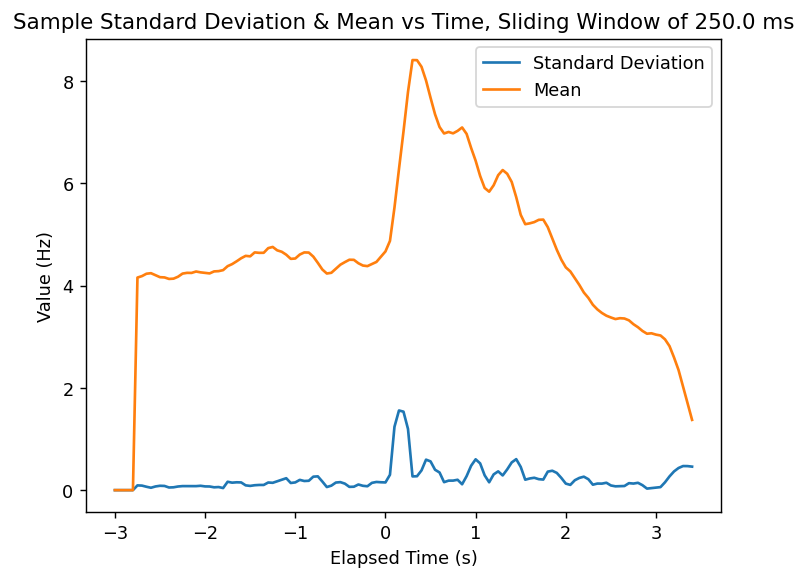
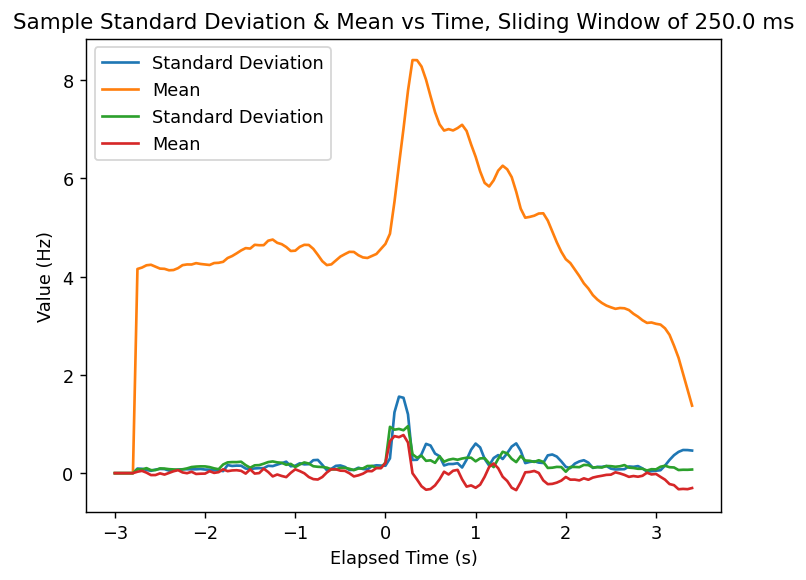
summary 11/4/21

diff --git a/spike_analysis/scripts.py b/spike_analysis/scripts.py
@@ -830,30 +830,70 @@ def epoch_based_pca(session_data_dict):
 
     vvt = np.zeros(ts.shape)
     mvt = np.zeros(ts.shape)
+    vvt2 = np.zeros(ts.shape)
+    mvt2 = np.zeros(ts.shape)
+    vvt3 = np.zeros(ts.shape)
+    mvt3 = np.zeros(ts.shape)
+
     win_len = 5
 
     frs, trial_mask = filter_firing_rates_by_stim_type(sess.get_firing_rates(region='left ALM'), sess)
     print(frs.shape)
 
-    frs = frs.mean(axis=(1,2))
+    frs_t = frs.mean(axis=(1,2))
+    frs_t2 = (np.diff(frs, axis=0)).mean(axis=(1, 2))
+
+    frs_t3 = np.log(frs)
+    frs_t3[np.isnan(frs_t3)] = 0
+    frs_t3[np.isinf(frs_t3)] = 0
+    frs_t3 = (np.diff(frs_t3, axis=0)).mean(axis=(1, 2))
     for i in range(win_len, len(vvt)):
-        vvt[i] = np.std(frs[i - win_len:i])
-        mvt[i] = np.mean(frs[i - win_len:i])
+        vvt[i] = np.std(frs_t[i - win_len:i])
+        vvt2[i] = np.std(frs_t2[i - win_len:i])
+        vvt3[i] = np.std(frs_t3[i - win_len:i])
+
     dt = ts[1] - ts[0]
     win_size = dt * win_len
 
     plt.figure("varvt")
-    plt.title("Sample Standard Deviation & Mean vs Time, Sliding Window of {0} ms".format(np.round(1000*win_size)))
+    plt.title("Sample Standard Deviation vs Time, Sliding Window of {0} ms".format(np.round(1000*win_size)))
     plt.xlabel("Elapsed Time (s)")
     plt.ylabel("Value (Hz)")
-    plt.plot(ts, vvt, label='Standard Deviation')
-    plt.plot(ts, mvt, label='Mean')
+    plt.plot(ts, vvt, label='Raw')
+    plt.plot(ts, vvt2, label='Diff')
+    plt.plot(ts, vvt3, label='Log-Diff')
     plt.legend()
-    plt.savefig("varvt.png", bbox_inches='tight', dpi=128)
+    plt.savefig("varvt_trans.png", bbox_inches='tight', dpi=128)
+
+
+    for i in range(win_len, len(vvt)):
+        mvt2[i] = np.mean(frs_t2[i - win_len:i])
+        mvt[i] = np.mean(frs_t[i - win_len:i])
+        mvt3[i] = np.mean(frs_t3[i - win_len:i])
+    dt = ts[1] - ts[0]
+    win_size = dt * win_len
+
+    # plt.plot(ts, mvt, label='Mean')
+
+    plt.figure("meanvt")
+    plt.title("Sample Mean vs Time, Sliding Window of {0} ms".format(np.round(1000 * win_size)))
+    plt.xlabel("Elapsed Time (s)")
+    plt.ylabel("Value (Hz)")
+    plt.plot(ts, mvt, label='Raw')
+    plt.plot(ts, mvt2, label='Diff')
+    plt.plot(ts, mvt3, label='Log-Diff')
+    plt.legend()
+    plt.savefig("meanvt_trans.png",bbox_inches='tight', dpi=128)
+
+
+
+
+
+    # plt.savefig("varvt.png", bbox_inches='tight', dpi=128)
     plt.show()
 
 
-def least_squares_prediction(session):
+def least_squares_prediction(session, invert=False):
     def fit(X, b):
         from sklearn.model_selection import train_test_split
         X_train, X_test, b_train, b_test = train_test_split(X, b, test_size = 0.33, random_state = 42)
@@ -886,29 +926,44 @@ def least_squares_prediction(session):
             frs_t = frs.copy()
             frs_t[:-1] = np.diff(frs, axis=0)
             ls = '.'
+            if invert:
+                frs_t = np.cumsum(frs_t, axis=0)
         elif t == 'log':
             frs_t = np.log(frs)
             ls = '*'
+            if invert:
+                frs_t = np.exp(frs_t)
         elif t == 'diff-log':
             frs_t = frs.copy()
             frs_t[:-1] = np.diff(frs, axis=0)
             frs_t = np.log(frs_t)
+            if invert:
+                frs_t = np.exp(frs_t)
+                frs_t = np.cumsum(frs_t, axis=0)
             ls='x'
         elif t == 'log-diff':
             frs_t = frs.copy()
             frs_t = np.log(frs_t)
             frs_t[:-1] = np.diff(frs, axis=0)
             ls = 'd'
+            if invert:
+                frs_t = np.cumsum(frs_t, axis=0)
+                frs_t = np.exp(frs_t)
         else:
             continue
         frs_t[np.isnan(frs_t)] = 0
         frs_t[np.isinf(frs_t)] = 0
-
         fr_pcas, _, _ = pca(10, frs_t)
         js = [fit(fr_pcas[idx_time, :, :], b) for idx_time in tqdm.tqdm(range(len(ts)))]
         plt.figure("js")
         plt.plot(ts, js, label=str(t), marker=ls)
+
+    plt.axhline(.5, c='black',label='Chance Level')
     plt.legend()
+    plt.title("Lick Direction Prediction Accuracy")
+    plt.xlabel("Trial Time")
+    plt.ylabel("Prediction Accuracy")
+    plt.savefig("fit_pc_projs_transformed.png", bbox_inches='tight', dpi=128)
     plt.show()
 
     # for each of (raw, diff, log, diff-log, log-diff)

diff --git a/spike_analysis/main.py b/spike_analysis/main.py
@@ -15,7 +15,8 @@ if __name__ == '__main__':
     session_data_dict = scripts.load_all_session_data(verbose=False)
     for sess in session_data_dict.values():
         try:
-            scripts.least_squares_prediction(sess)
+            scripts.epoch_based_pca(session_data_dict)
+            # scripts.least_squares_prediction(sess, True)
         except KeyError:
             continue
 
